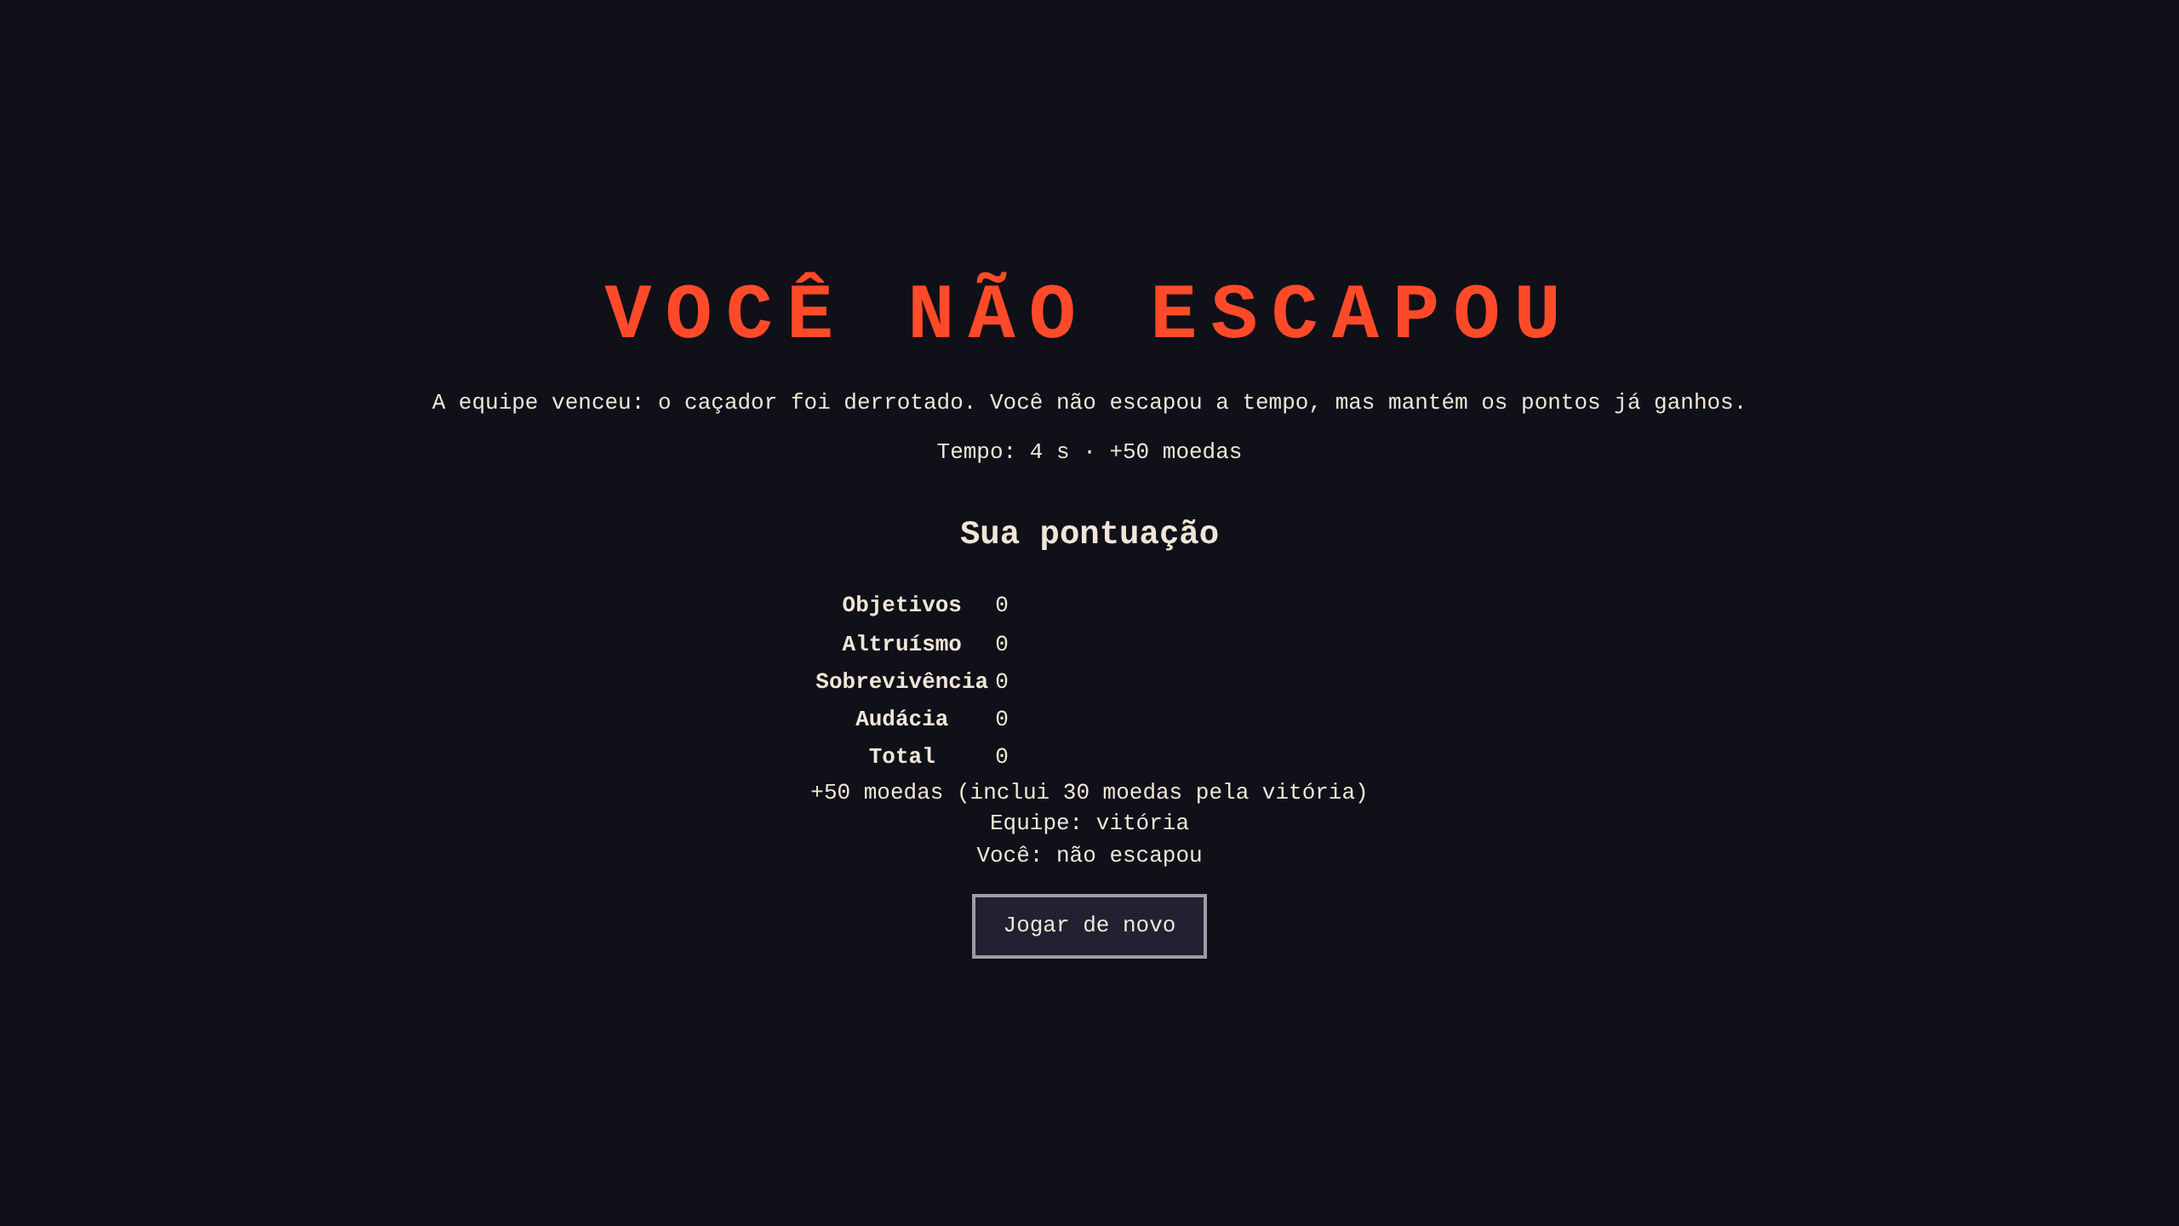
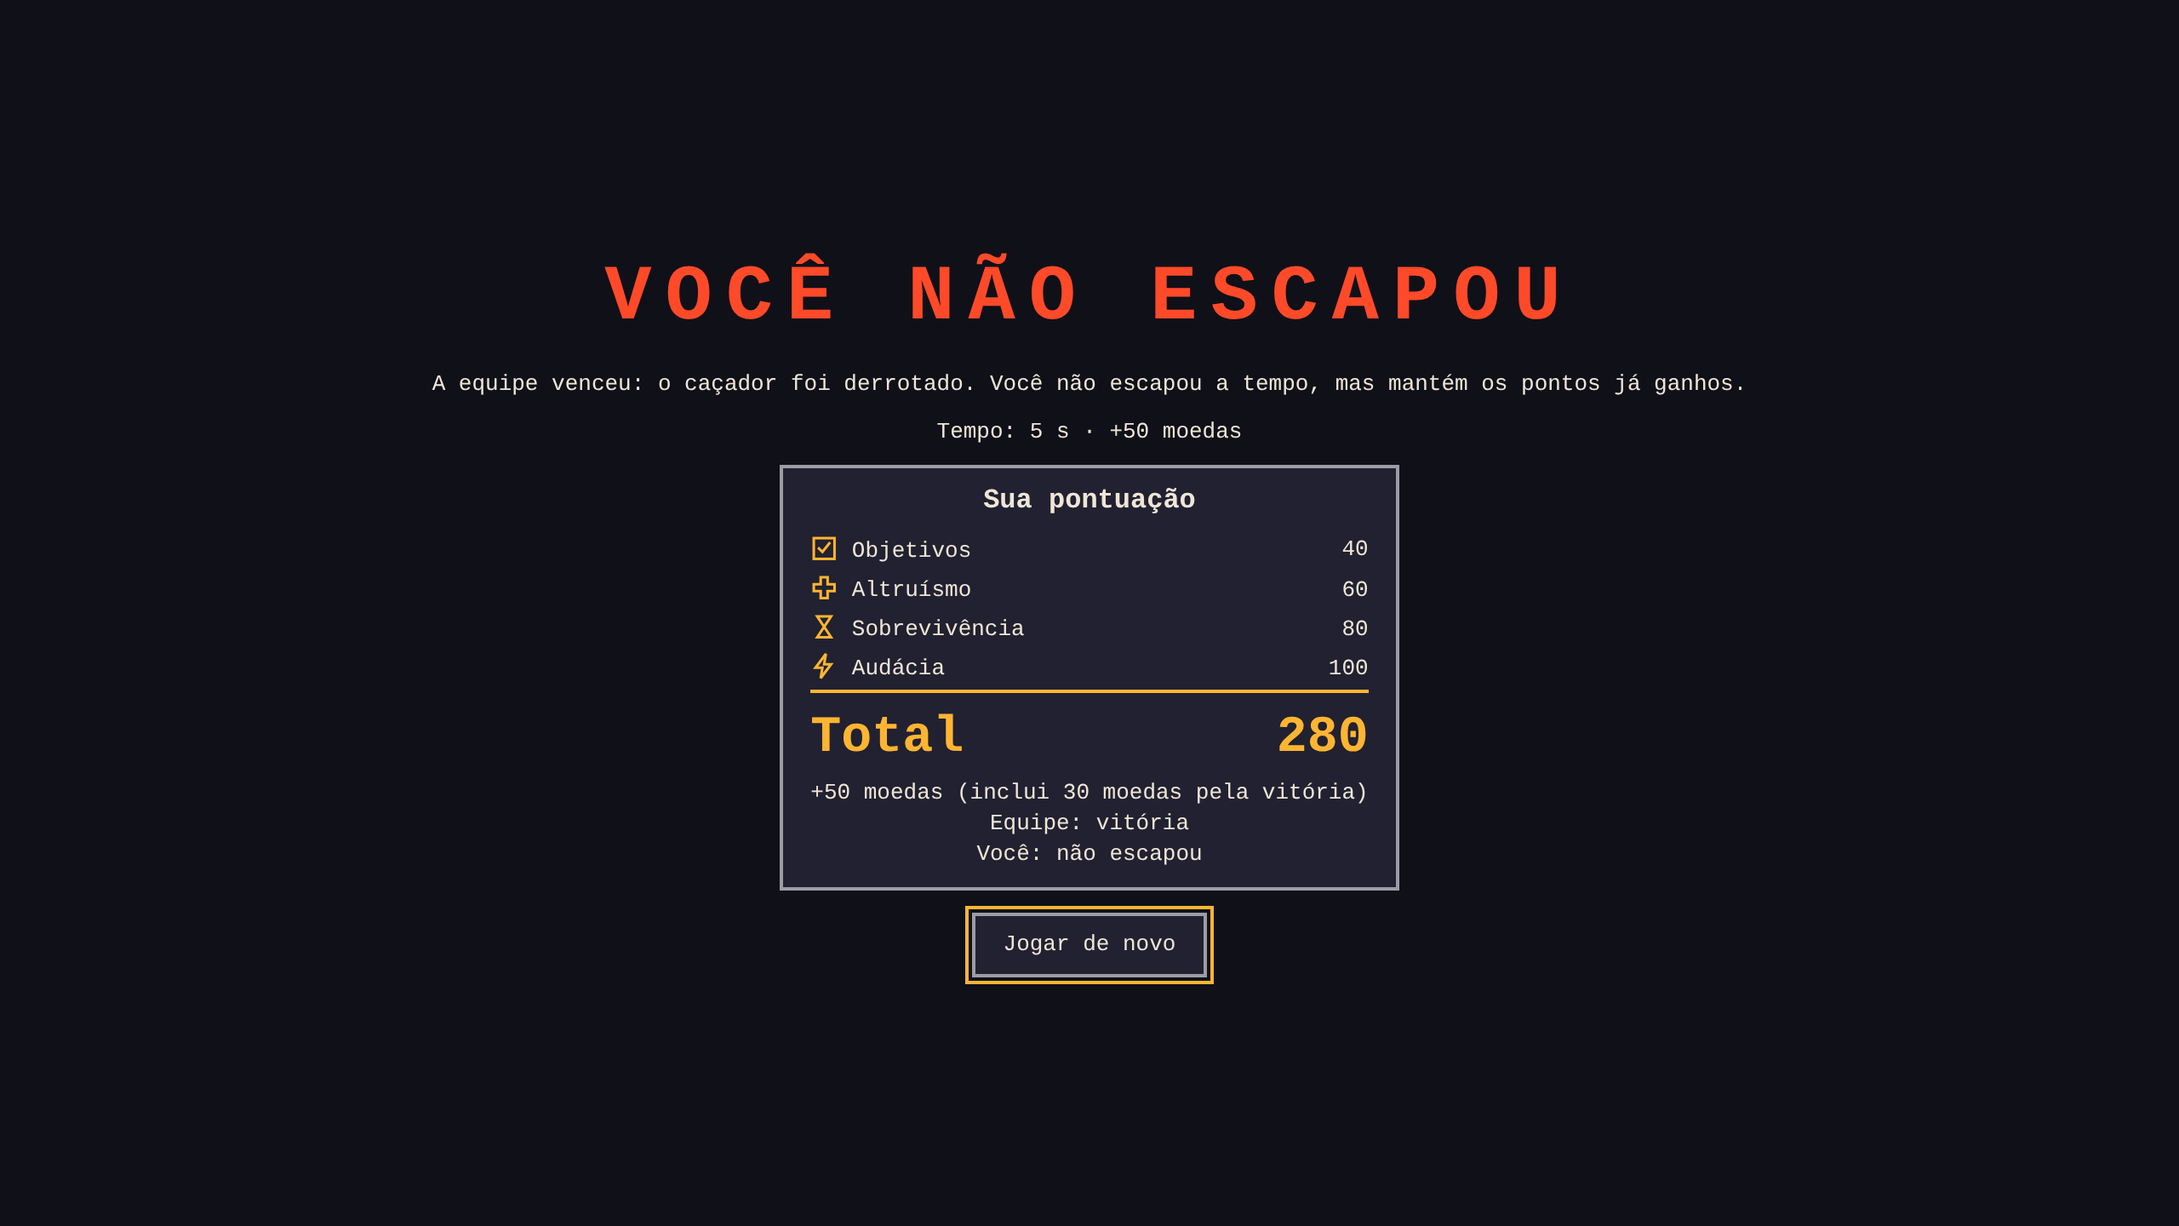
feat(ui): telas do R6 conforme a issue #66
- total grande e destacado (ui.accent), ícone SVG aria-hidden por categoria
- contagem dos pontos de 0 ao valor em ui.results.count_up_s (LACUNA: 1,2 s);
  instantânea com "reduzir balanço de câmera" ou prefers-reduced-motion;
  Enter/A em "Jogar de novo" pula sem recarregar; foco já no botão
- Pesadelo com a cor ui.danger, rótulo mantido
- r6-e2e e pnpm a11y estendidos (contagem no meio, 3 fontes; 57 telas)
- capturas r6 regeneradas (dsf 2), inclusive r6-fim-contando.png

Closes #66

Claude-Session: https://claude.ai/code/session_01RHvzBkpAz1qJUMgUKvPxkx

diff --git a/packages/client/src/ui/results.ts b/packages/client/src/ui/results.ts
@@ -1,12 +1,18 @@
 // Resumo de fim de partida (R6; GDD v0.2 §7.1–7.2): pontos do jogador nas 4 categorias (Objetivos, Altruísmo,
 // Sobrevivência, Audácia), total, moedas (com ou sem o bônus de vitória) e resultado da equipe e individual.
 // Só o v1 traz `score` no evento `end`; no protótipo o resumo fica oculto e a tela de fim mostra só o resultado e as
-// moedas (menu.ts `showEnd`). Números: só os do evento e de `economy` (data/balance.yaml).
-// Visual neutro provisório: tabela nativa com os estilos já existentes da tela de fim.
+// moedas (menu.ts `showEnd`). Números: só os do evento, de `economy` e de `ui.results` (data/balance.yaml).
+// Visual (issue #66): ícone ao lado de cada categoria (aria-hidden, o leitor de tela lê só o nome), total grande e
+// destacado, moedas numa linha. Os pontos contam de 0 até o valor em `ui.results.count_up_s`; com "reduzir balanço de
+// câmera" (opção do jogo) ou prefers-reduced-motion (sistema) aparecem na hora. Durante a contagem o foco já está em
+// "Jogar de novo" e a primeira ativação (Enter, Espaço, A do gamepad ou clique) só pula para os valores finais.
+// Leitor de tela: o número que conta é aria-hidden; ao lado fica o valor final em texto só para leitores (.sr).
 import type { Balance } from "@thehell/shared";
 import { SCORE_CATEGORIES, type GameEvent, type Individual, type ScoreCategory, type Team } from "@thehell/sim";
 import { $, balance } from "../data.ts";
+import { SCORE_ICON } from "../hud/icons.ts";
 import { num, t, type Key } from "../i18n/index.ts";
+import { getReduceCameraBob } from "../render/motion.ts";
 
 type EndEvent = Extract<GameEvent, { type: "end" }>;
 
@@ -35,6 +41,78 @@ export function resultsSummary(e: EndEvent, b: Balance = balance): ResultsSummar
   return { rows, total, coins: e.coins, coinsText, team: e.team, individual: e.individual };
 }
 
+// ---------- contagem ----------
+
+/** fração da contagem (0 a 1) depois de `elapsed` s; duração 0 = já no fim */
+export const countFraction = (elapsed: number, duration: number) => (duration <= 0 ? 1 : Math.min(1, Math.max(0, elapsed / duration)));
+
+/** valor mostrado na fração `p`: inteiro de 0 até `final` (o final exato em p = 1) */
+export const countValue = (final: number, p: number) => (p >= 1 ? final : Math.round(final * Math.max(0, p)));
+
+/** contagem desligada: "reduzir balanço de câmera" do menu de opções ou prefers-reduced-motion do sistema */
+export function reduceMotion(
+  bob: boolean = getReduceCameraBob(),
+  media: boolean = globalThis.matchMedia?.("(prefers-reduced-motion: reduce)").matches ?? false,
+): boolean {
+  return bob || media;
+}
+
+export interface CountUp {
+  /** ainda contando */
+  readonly counting: boolean;
+  /** fração mostrada (0 a 1) */
+  readonly fraction: number;
+  /** pula para os valores finais */
+  finish(): void;
+  /** congela a contagem na fração `p` (gancho de depuração: capturas e axe no meio da contagem) */
+  hold(p: number): void;
+}
+
+/**
+ * contagem de `cells` (elemento visível e valor final) em `durationS` s; `instant` mostra os finais na hora.
+ * `raf` e `now` são injetáveis (testes). `onDone` roda uma vez, ao chegar nos finais (pelo tempo ou por `finish`)
+ */
+export function startCountUp(
+  cells: { el: Element; final: number }[], durationS: number, instant: boolean, onDone: () => void = () => {},
+  raf: (cb: () => void) => unknown = cb => requestAnimationFrame(cb), now: () => number = () => performance.now(),
+): CountUp {
+  let p = 0, done = false, held: number | null = null;
+  const t0 = now();
+  const show = (f: number) => { p = f; for (const c of cells) c.el.textContent = num(countValue(c.final, f)); };
+  const finish = () => { if (done) return; done = true; show(1); onDone(); };
+  const tick = () => {
+    if (done) return;
+    const f = held ?? countFraction((now() - t0) / 1000, durationS);
+    if (f >= 1) { finish(); return; }
+    show(f);
+    raf(tick);
+  };
+  if (instant || durationS <= 0) finish();
+  else { show(0); raf(tick); }
+  return {
+    get counting() { return !done; },
+    get fraction() { return p; },
+    finish,
+    hold(f: number) { if (done) return; held = Math.min(1, Math.max(0, f)); if (held >= 1) finish(); else show(held); },
+  };
+}
+
+let current: CountUp | null = null;
+/** contagem da última tela de fim (null sem resumo) */
+export const resultsCount = (): CountUp | null => current;
+
+let nextHold: number | null = null;
+/**
+ * gancho de depuração: congela na fração `p` a contagem em andamento ou, sem contagem em andamento, a próxima (a tela
+ * de fim chega pela simulação; congelar antes evita depender da velocidade da máquina nas capturas e no axe)
+ */
+export function holdCount(p: number) {
+  if (current?.counting) current.hold(p);
+  else nextHold = p;
+}
+
+// ---------- DOM ----------
+
 /** elemento com id opcional e texto (textContent: nada de HTML vindo das traduções) */
 function el<K extends keyof HTMLElementTagNameMap>(tag: K, text?: string, id?: string): HTMLElementTagNameMap[K] {
   const e = document.createElement(tag);
@@ -43,34 +121,73 @@ function el<K extends keyof HTMLElementTagNameMap>(tag: K, text?: string, id?: s
   return e;
 }
 
-/** linha da tabela: cabeçalho de linha e valor */
-function row(label: string, value: number, valueId?: string): HTMLTableRowElement {
+/** linha da tabela: cabeçalho (ícone opcional + rótulo) e valor (número que conta, aria-hidden, e o final para leitores) */
+function row(label: string, value: number, icon?: string, valueId?: string): { tr: HTMLTableRowElement; shown: HTMLElement } {
   const tr = el("tr");
-  const th = el("th", label);
+  const th = el("th");
   th.scope = "row";
-  tr.append(th, el("td", num(value), valueId));
-  return tr;
+  if (icon) {
+    const i = el("span");
+    i.className = "rsi";
+    i.setAttribute("aria-hidden", "true");
+    i.innerHTML = icon; // SVG fixo de hud/icons.ts (sem texto de tradução)
+    th.append(i);
+  }
+  th.append(label);
+  const td = el("td", undefined, valueId);
+  const shown = el("span", num(value));
+  shown.className = "rsv";
+  shown.setAttribute("aria-hidden", "true");
+  const sr = el("span", num(value));
+  sr.className = "sr";
+  td.append(shown, sr);
+  tr.append(th, td);
+  return { tr, shown };
 }
 
-/** monta (ou esconde) o resumo dentro da tela de fim, antes de `before` */
+let skipInstalled = false;
+/** durante a contagem, a 1ª ativação dentro da tela de fim (Enter/Espaço/A em "Jogar de novo" ou clique) só pula */
+function installSkip(end: HTMLElement) {
+  if (skipInstalled) return;
+  skipInstalled = true;
+  end.addEventListener("click", e => {
+    if (!current?.counting) return;
+    e.preventDefault();
+    e.stopImmediatePropagation();
+    current.finish();
+  }, true);
+}
+
+/** monta (ou esconde) o resumo dentro da tela de fim, antes de `before`, e começa a contagem */
 export function showResults(e: EndEvent, before: Element = $("again")) {
   document.getElementById("rs")?.remove();
+  current?.finish();
+  current = null;
   const s = resultsSummary(e);
   if (!s) return;
   const box = el("section", undefined, "rs");
   box.setAttribute("aria-labelledby", "rst");
   const body = el("tbody");
+  const cells: { el: Element; final: number }[] = [];
   for (const r of s.rows) {
-    const tr = row(r.label, r.points);
+    const { tr, shown } = row(r.label, r.points, SCORE_ICON[r.category]);
     tr.dataset.cat = r.category;
     body.append(tr);
+    cells.push({ el: shown, final: r.points });
   }
   const foot = el("tfoot");
-  foot.append(row(t("score.total"), s.total, "rstot"));
+  const tot = row(t("score.total"), s.total, undefined, "rstot");
+  foot.append(tot.tr);
+  cells.push({ el: tot.shown, final: s.total });
   const table = el("table");
   table.append(body, foot);
   box.append(el("h2", t("score.title"), "rst"), table, el("p", s.coinsText, "rsc"));
   if (s.team) box.append(el("p", t("score.team", { team: s.team }), "rsteam"));
   if (s.individual) box.append(el("p", t("score.individual", { individual: s.individual }), "rsind"));
   before.before(box);
+  const end = before.closest<HTMLElement>("#end");
+  if (end) installSkip(end);
+  box.dataset.counting = "true";
+  current = startCountUp(cells, balance.ui.results.count_up_s, reduceMotion(), () => { box.dataset.counting = "false"; });
+  if (nextHold !== null) { current.hold(nextHold); nextHold = null; }
 }

diff --git a/packages/client/test/r6-telas.test.ts b/packages/client/test/r6-telas.test.ts
@@ -5,7 +5,8 @@ import { makeConfig, SCORE_CATEGORIES, type GameEvent } from "@thehell/sim";
 import { map } from "../src/data.ts";
 import { setLocale, t } from "../src/i18n/index.ts";
 import { DIFFICULTY_STORE, difficulties, difficultyNote, loadDifficulty, matchConfig, saveDifficulty, type KeyStore } from "../src/ui/difficulty.ts";
-import { resultsSummary } from "../src/ui/results.ts";
+import { countFraction, countValue, reduceMotion, resultsSummary, startCountUp } from "../src/ui/results.ts";
+import { SCORE_ICON } from "../src/hud/icons.ts";
 import { goalText } from "../src/text.ts";
 
 const bal = loadBalanceFile(new URL("../../../data/balance.yaml", import.meta.url).pathname);
@@ -111,5 +112,87 @@ describe("dificuldade (difficulty.ts)", () => {
       expect(goalText(bal, 4, 3, gate)).toContain(`(${gate} s)`);
     }
     expect(goalText(bal, 4, 3)).toContain(`(${bal.generator.gate_time} s)`);
+  });
+});
+
+describe("contagem dos pontos na tela de fim (issue #66, resposta 3b)", () => {
+  setLocale("pt-BR");
+  const D = bal.ui.results.count_up_s;
+  /** relógio e requestAnimationFrame falsos: cada quadro avança `dt` ms */
+  const fakeClock = () => {
+    let ms = 0, queued: (() => void) | null = null;
+    return {
+      now: () => ms,
+      raf: (cb: () => void) => { queued = cb; },
+      frame(dt: number) { ms += dt; const cb = queued; queued = null; cb?.(); },
+      get pending() { return queued !== null; },
+    };
+  };
+  const cell = (final: number) => ({ el: { textContent: "" } as unknown as Element, final });
+
+  it("duração vem de ui.results.count_up_s (positiva)", () => {
+    expect(D).toBeGreaterThan(0);
+  });
+
+  it("fração e valor: de 0 ao final exato, limitados", () => {
+    expect(countFraction(0, D)).toBe(0);
+    expect(countFraction(D / 2, D)).toBeCloseTo(0.5);
+    expect(countFraction(D * 3, D)).toBe(1);
+    expect(countFraction(1, 0)).toBe(1);
+    expect(countValue(250, 0)).toBe(0);
+    expect(countValue(250, 0.5)).toBe(125);
+    expect(countValue(250, 1)).toBe(250);
+    expect(countValue(7, 0.999)).toBeLessThanOrEqual(7);
+  });
+
+  it("conta até o final em count_up_s e avisa uma vez", () => {
+    setLocale("pt-BR");
+    const c = fakeClock(), cells = [cell(90), cell(250)];
+    let done = 0;
+    const cu = startCountUp(cells, D, false, () => done++, c.raf, c.now);
+    expect(cu.counting).toBe(true);
+    expect(cells.map(x => x.el.textContent)).toEqual(["0", "0"]);
+    c.frame((D * 1000) / 2);
+    expect(cu.counting).toBe(true);
+    expect(cells[1].el.textContent).toBe("125");
+    c.frame(D * 1000);
+    expect(cu.counting).toBe(false);
+    expect(cells.map(x => x.el.textContent)).toEqual(["90", "250"]);
+    expect(c.pending).toBe(false);
+    cu.finish();
+    expect(done).toBe(1);
+  });
+
+  it("pular (Enter/A) mostra os finais na hora; congelar segura a fração", () => {
+    setLocale("pt-BR");
+    const c = fakeClock(), cells = [cell(1000)];
+    const cu = startCountUp(cells, D, false, undefined, c.raf, c.now);
+    cu.hold(0.4);
+    c.frame(D * 5000);
+    expect(cu.counting).toBe(true);
+    expect(cu.fraction).toBeCloseTo(0.4);
+    expect(cells[0].el.textContent).toBe("400");
+    cu.finish();
+    expect(cu.counting).toBe(false);
+    expect(cells[0].el.textContent).toBe(new Intl.NumberFormat("pt-BR").format(1000));
+  });
+
+  it("reduzir movimento: valores finais sem nenhum quadro de contagem", () => {
+    const c = fakeClock(), cells = [cell(60)];
+    const cu = startCountUp(cells, D, true, undefined, c.raf, c.now);
+    expect(cu.counting).toBe(false);
+    expect(cells[0].el.textContent).toBe("60");
+    expect(c.pending).toBe(false);
+  });
+
+  it("contagem desligada com reduzir balanço de câmera ou prefers-reduced-motion", () => {
+    expect(reduceMotion(false, false)).toBe(false);
+    expect(reduceMotion(true, false)).toBe(true);
+    expect(reduceMotion(false, true)).toBe(true);
+  });
+
+  it("um ícone por categoria, escondido do leitor de tela", () => {
+    expect(Object.keys(SCORE_ICON).sort()).toEqual([...SCORE_CATEGORIES].sort());
+    for (const svg of Object.values(SCORE_ICON)) expect(svg).toContain('aria-hidden="true"');
   });
 });

diff --git a/packages/client/index.html b/packages/client/index.html
@@ -65,6 +65,13 @@ h1{margin:0;font-size:calc(46px * var(--ui-scale,1));letter-spacing:8px;color:va
 button{background:var(--ui-panel);color:var(--ui-text);border:2px solid var(--ui-text-dim);padding:8px 16px;font:inherit;cursor:pointer;margin:3px}
 button.on,button[aria-pressed="true"]{border-color:var(--ui-accent);color:var(--ui-accent)}button:hover{border-color:var(--ui-text)}
 small,.dim{color:var(--ui-text-dim)}
+#dif button[data-d="nightmare"]{color:var(--ui-danger)}
+#rs{background:var(--ui-panel);border:2px solid var(--ui-text-dim);padding:8px 16px 10px;min-width:min(340px,100%);max-width:100%}
+#rs h2{margin:0 0 6px;font-size:calc(16px * var(--ui-scale,1))}#rs table{border-collapse:collapse;width:100%}
+#rs th{text-align:left;font-weight:normal;padding:2px 16px 2px 0;white-space:nowrap}#rs td{text-align:right;padding:2px 0;font-variant-numeric:tabular-nums}
+.rsi{display:inline-flex;width:1.25em;height:1.25em;margin-right:8px;vertical-align:-.25em;color:var(--ui-accent)}.rsi svg{width:100%;height:100%}
+#rs tfoot th,#rs tfoot td{font-size:calc(30px * var(--ui-scale,1));font-weight:bold;color:var(--ui-accent);border-top:2px solid var(--ui-accent);padding-top:6px}
+#rsc{margin-top:8px}
 #langs{display:flex;gap:4px;align-items:center;flex-wrap:wrap;justify-content:center}
 .sk{border:2px solid var(--ui-text-dim);padding:8px;min-width:130px;display:flex;flex-direction:column;align-items:center;gap:6px;background:var(--ui-panel)}.sk.on{border-color:var(--ui-accent)}#sg{display:flex;flex-wrap:wrap;gap:12px;justify-content:center;max-width:720px;margin:20px 0}.sw{position:relative;width:46px;height:64px;margin-top:22px}.sw i{position:absolute;left:11px;top:-14px;width:24px;height:24px}.sw u{position:absolute;left:8px;top:-22px;width:30px;height:9px}
 button:disabled{cursor:default;border-style:dashed}

diff --git a/packages/client/src/main.ts b/packages/client/src/main.ts
@@ -37,6 +37,7 @@ import { loadOptions, withAccessiblePuzzles } from "./ui/settings.ts";
 import { afterLoadIdle, startGate } from "./ui/start-gate.ts";
 import { charactersReady } from "./render/characters/runtime.ts";
 import { prefetchMatchCharacters } from "./render/characters/actors.ts";
+import { holdCount, resultsCount } from "./ui/results.ts";
 import { persist, save } from "./ui/shop.ts";
 
 let G: GameState;
@@ -96,6 +97,13 @@ exposeDebugHook("__thehellOptions", () => ({
 }));
 /** mockup Retro FPS: vista da câmera exposta às capturas do A2b (tools/art/a2b-capturas.mjs); sem ?retro não existe */
 if (urlRetro) exposeDebugHook("__thehellView", view);
+/** contagem do resumo de fim (tools/ui/r6-e2e.mjs e tools/a11y/axe.mjs; só com ?debug=1): estado, congelar numa fração
+ *  (a em andamento ou a próxima: capturas e axe no meio da contagem) e pular */
+exposeDebugHook("__thehellResults", {
+  state: () => { const c = resultsCount(); return c ? { counting: c.counting, fraction: c.fraction } : null; },
+  hold: (p: number) => holdCount(p),
+  finish: () => resultsCount()?.finish(),
+});
 
 async function start() {
   if (gate.busy()) return;

diff --git a/packages/client/src/hud/icons.ts b/packages/client/src/hud/icons.ts
@@ -30,5 +30,17 @@ export const STATE_ICON = {
   escaped: svg(`<path d="M2 8h9"/><path d="M8 5l3 3-3 3"/><path d="M13 2v12"/>`),
 } as const;
 
+/**
+ * ícones das categorias do resumo de fim de partida (R6, issue #66 resposta 2b; GDD v0.2 §7.1): formas simples no
+ * mesmo traço 16×16 dos ícones do HUD, sempre ao lado do nome da categoria (aria-hidden: o leitor de tela lê só o
+ * nome). Objetivos: caixa marcada; Altruísmo: cruz de socorro; Sobrevivência: ampulheta; Audácia: raio
+ */
+export const SCORE_ICON = {
+  objectives: svg(`<rect x="2" y="2" width="12" height="12"/><path d="M5 8l2 2 4-5"/>`),
+  altruism: svg(`<path d="M6 2h4v4h4v4h-4v4H6v-4H2V6h4z"/>`),
+  survival: svg(`<path d="M4 2h8L4 14h8z"/>`),
+  boldness: svg(`<path d="M9 1L3 9h4l-1 6 6-8H8z"/>`),
+} as const;
+
 /** seta da ameaça, apontando para cima (girada pelo setor) */
 export const THREAT_ARROW = `<svg viewBox="0 0 32 32" width="48" height="48" aria-hidden="true" focusable="false"><path d="M16 2L28 22H20V30H12V22H4Z" fill="currentColor"/></svg>`;

diff --git a/packages/shared/src/schema.ts b/packages/shared/src/schema.ts
@@ -29,6 +29,8 @@ const UiSchema = z.object({
     font_default: z.enum(["normal", "large", "xlarge"]),
     reduced_bob: num.min(0).max(1),
   }).strict(),
+  /** R6 (issue #66): contagem dos pontos na tela de fim (s; 0 = valores na hora) */
+  results: z.object({ count_up_s: pos }).strict(),
   /** V8: controles (GDD v0.3 §12.2): remapeamento, sensibilidade, inversão do Y, alternar em vez de segurar, gamepad */
   controls: z.object({
     mouse_rad_per_px: num.positive(), pitch_limit: num.positive(), key_turn_speed: num.positive(),
